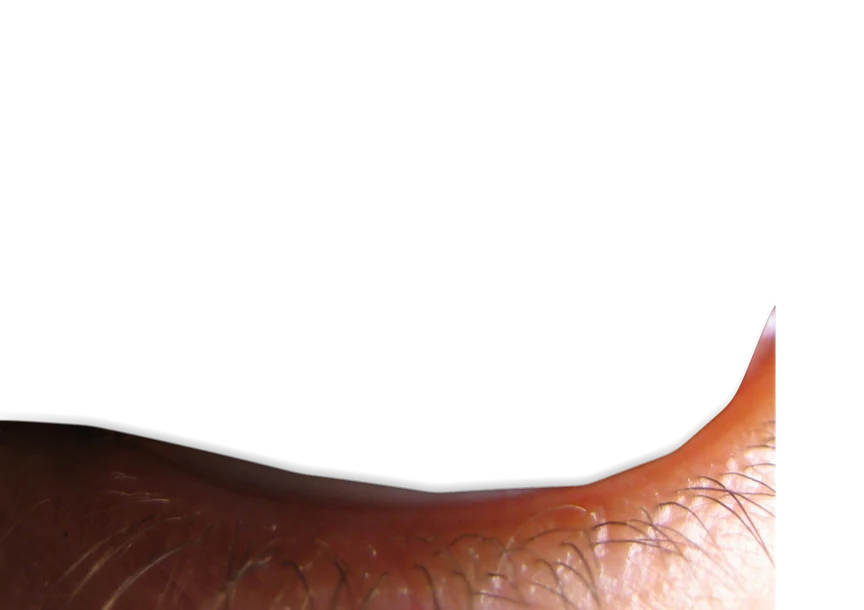
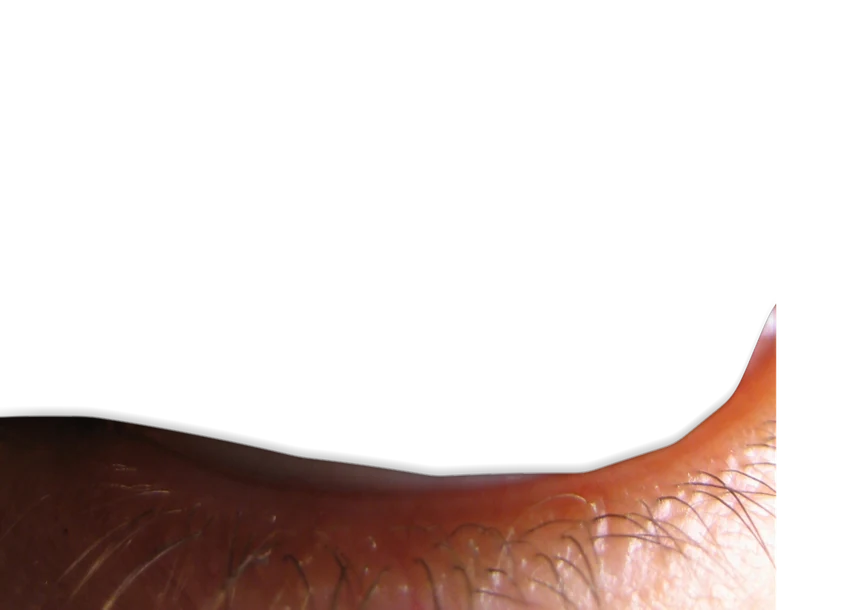
Two eyes: mirror the reflection with its eye, space the eyes like a face, a clearer smile
Claude-Session: https://claude.ai/code/session_01LBg8THo6wTrD4Pw2uQNr1i

diff --git a/ui/src/commonMain/kotlin/io/github/ahmetdurmus1218/jarvis/ui/components/RealEye.kt b/ui/src/commonMain/kotlin/io/github/ahmetdurmus1218/jarvis/ui/components/RealEye.kt
@@ -244,9 +244,9 @@ fun RealEye(
         one(modifier.size(size * 1.3f, size), mirror = false)
         return
     }
-    // Two eyes side by side; their faded edges overlap a little where the bridge of the nose would be.
+    // Two eyes about one eye apart, as on a face (the photo is mostly the eye itself, its skin fades out).
     val total = size * 1.28f
-    val eyeW = total * 0.56f
+    val eyeW = total * 0.42f
     val eyeH = eyeW * 0.74f
     Box(modifier.size(total, eyeH)) {
         one(Modifier.size(eyeW, eyeH), mirror = true)
@@ -301,7 +301,7 @@ fun DrawScope.drawEye(
     cache: PupilCache? = null,
     /** The lower lid raised (0 … 1), a smile. */
     low: Float = 0f,
-    /** Drawn as the mirror image (the other eye of the pair); the window's reflection stays where the light is. */
+    /** Drawn as the mirror image (the other eye of the pair). */
     mirror: Boolean = false,
 ) {
     val g = eye.geometry
@@ -320,14 +320,15 @@ fun DrawScope.drawEye(
     fun mirrored(block: DrawScope.() -> Unit) =
         if (mirror) withTransform({ scale(-1f, 1f, center) }) { block() } else block()
 
-    // 1. The eye with its pupil at the wanted size.
-    mirrored { drawPupilPicture(eye, scale, cache, left, top, w, dstOff, dstSize) }
-    // 2. The window reflected in the cornea: not mirrored (the light is on the same side for both eyes), only
-    //    moved to the mirrored cornea.
-    val dx = if (mirror) (g.width - 2f * g.pupilX) * k else 0f
-    drawImage(eye.reflection, IntOffset.Zero, src, IntOffset(dstOff.x + dx.roundToInt(), dstOff.y), dstSize, filterQuality = FilterQuality.High)
-    mirrored { drawLids(eye, lid, low, ::img) }
-    mirrored { drawFade(eye, left, top, k, dstOff, dstSize) }
+    mirrored {
+        // 1. The eye with its pupil at the wanted size.
+        drawPupilPicture(eye, scale, cache, left, top, w, dstOff, dstSize)
+        // 2. The window reflected in the cornea stays where it is while the pupil changes (it is part of the
+        //    photo, so the mirrored eye has it mirrored too).
+        img(eye.reflection)
+        drawLids(eye, lid, low, ::img)
+        drawFade(eye, left, top, k, dstOff, dstSize)
+    }
 }
 
 /** The photo with its pupil re-sampled, from the [cache] when there is one. */

diff --git a/tools/rick-eye/lower.py b/tools/rick-eye/lower.py
@@ -7,7 +7,7 @@ a,H,W,xx,yy,x,l=E.a,E.H,E.W,E.xx,E.yy,E.x,E.l
 X0,X1=-40.0,1035.0
 _t=np.clip((x-X0)/(X1-X0),0,1)
 TAPER=np.clip(np.sin(np.pi*_t),0,1)**0.8                      # nothing at the corners, most under the iris
-RMAX=95.0
+RMAX=160.0
 def lower(e):
     """RGB and alpha of the lower lid raised by e (0 … 1)."""
     rise=e*RMAX*TAPER
